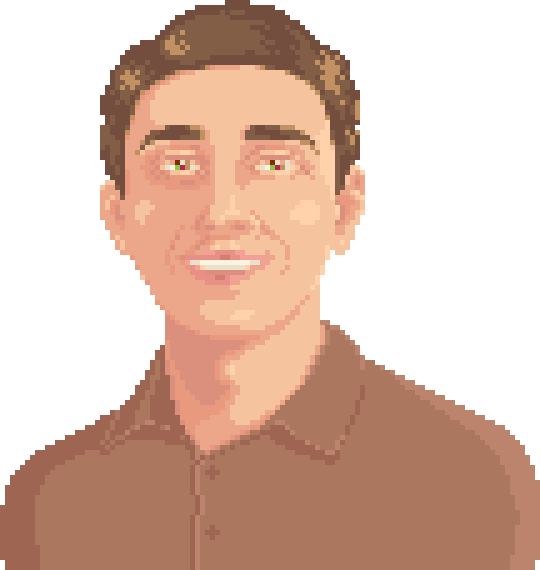
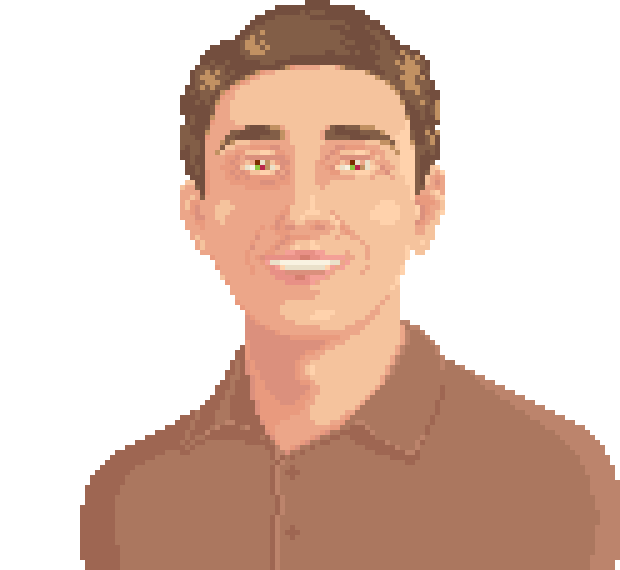
adjust hero for responsiveness

diff --git a/src/styles/sections/_hero.scss b/src/styles/sections/_hero.scss
@@ -11,9 +11,17 @@
     align-items: center;
     gap: 4rem;
 
+    @media screen and (max-width: 800px) {
+        gap: 3rem;
+    }
+
     @media screen and (max-width: 600px) {
         gap: 2rem;
         padding: 2rem 0;
+    }
+
+    @media screen and (max-width: 400px) {
+        gap: 1.5rem;
     }
 
     .hero-wrapper {
@@ -25,27 +33,44 @@
         flex-direction: column;
         justify-content: flex-end;
 
-        @media screen and (max-width: 600px) {
+        @media screen and (max-width: 800px) {
             flex-grow: 1;
+            max-height: 730px;
+        }
+
+        @media screen and (max-width: 400px) {
+            max-height: 560px;
         }
     }
 
     .portrait {
         position: absolute;
-        display: block;
-        width: 100%;
-        bottom: -60px;
-        right: -10px;
-        text-align: right;
+        display: inline-block;
+        margin-right: -2rem;
+        align-self: flex-end;
+        bottom: -12%;
         background-color: transparent;
         z-index: 2;
 
-        @media screen and (max-width: 1024px) {
-            right: -70px;
+        @media screen and (max-width: 1140px) {
+            margin-right: -5rem;
         }
 
         @media screen and (max-width: 800px) {
-            right: -120px;
+            margin-right: 0;
+            align-self: center;
+            bottom: unset;
+            top: 0;
+
+            img {
+                height: clamp(560px, 82vh, 800px);
+            }
+        }
+
+        @media screen and (max-width: 400px) {
+            img {
+                height: clamp(480px, 82vh, 560px);
+            }
         }
     }
 
@@ -63,9 +88,12 @@
         display: flex;
         flex-direction: column;
 
-        @media screen and (max-width: 600px) {
-            margin-top: 0;
-            flex-grow: 1;
+        @media screen and (max-width: 800px) {
+            margin-top: 13rem;
+        }
+
+        @media screen and (max-width: 480px) {
+            padding: 1.5rem 1.8rem;
         }
     }
 
@@ -73,13 +101,23 @@
         width: 100%;
         display: grid;
         grid-template-columns: 1fr;
-        justify-items: start;
+        justify-content: flex-start;
         z-index: 10;
-    }
 
-    h3 {
-        margin-top: 1rem;
-        font-family: 'PixAntiqua';
+        .breakable::after {
+            content: '\00000a';
+            white-space: pre;
+
+            // UNCOMMENT TO INLINE 'HI!' INSEAD OF BREAKING
+            // @media screen and (max-width: 400px) {
+            //     content: ' ';
+            // }
+        }
+
+        h3 {
+            margin-top: 1rem;
+            font-family: 'PixAntiqua';
+        }
     }
 
     .info {
@@ -89,6 +127,15 @@
         justify-content: space-between;
         align-items: center;
         gap: 3rem;
+
+        @media screen and (max-width: 540px) {
+            flex-direction: column;
+            gap: 2rem;
+        }
+
+        @media screen and (max-width: 400px) {
+            gap: 1.5rem;
+        }
     }
 
     .info-list {
@@ -100,14 +147,22 @@
         @media screen and (max-width: 800px) {
             gap: 2rem;
         }
+
+        @media screen and (max-width: 300px) {
+            flex-direction: column;
+            gap: 1rem;
+        }
     }
 
     .info-item {
-        height: 3rem;
         font-weight: 300;
         display: flex;
         justify-content: center;
         align-items: center;
         gap: 0.5rem;
+
+        @media screen and (max-width: 400px) {
+            font-size: 0.8rem;
+        }
     }
 }

diff --git a/src/sections/Hero.js b/src/sections/Hero.js
@@ -11,10 +11,10 @@ export default function Hero() {
                 <div className="greeting">
                     <header>
                         <h1>
-                            hi! <br />
+                            <span className="breakable">hi!</span>
                             my name is <br /> daniel panski
                         </h1>
-                        <h3>i make things for the web</h3>
+                        <h3>my pixels are showing? oh my!</h3>
                     </header>
                 </div>
             </div>
@@ -29,7 +29,7 @@ export default function Hero() {
                 </ul>
                 <div className="cta">
                     <a href="#contact" className="btn">
-                        contact me
+                        contact&nbsp;me
                     </a>
                 </div>
             </div>

diff --git a/src/styles/core/_base.scss b/src/styles/core/_base.scss
@@ -53,16 +53,36 @@ section {
 h1 {
     @extend %header-big;
     font-size: 3rem;
+
+    @media screen and (max-width: 800px) {
+        font-size: 2.2rem;
+    }
+
+    @media screen and (max-width: 440px) {
+        font-size: 1.8rem;
+    }
 }
 
 h2 {
     @extend %header-big;
     font-size: 2.7rem;
+
+    @media screen and (max-width: 440px) {
+        font-size: 2.3rem;
+    }
 }
 
 h3 {
     @extend %header-small;
     font-size: 1.7rem;
+
+    @media screen and (max-width: 800px) {
+        font-size: 1.6rem;
+    }
+
+    @media screen and (max-width: 440px) {
+        font-size: 1.4rem;
+    }
 }
 
 h4 {

diff --git a/src/styles/core/_app.scss b/src/styles/core/_app.scss
@@ -1,8 +1,9 @@
 @use 'variables';
 
 .app {
-    width: variables.$container-width-lg;
     margin: 0 auto;
+    width: variables.$container-width-lg;
+    min-width: 260px;
 
     @media screen and (max-width: 1024px) {
         width: variables.$container-width-md;
